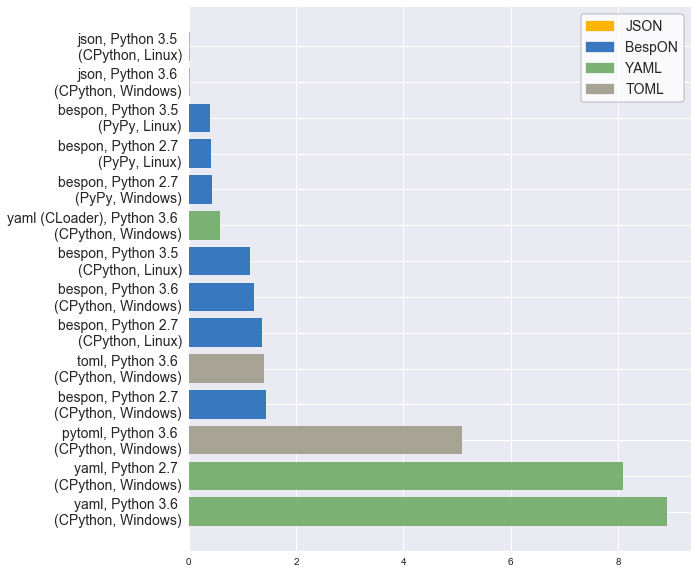
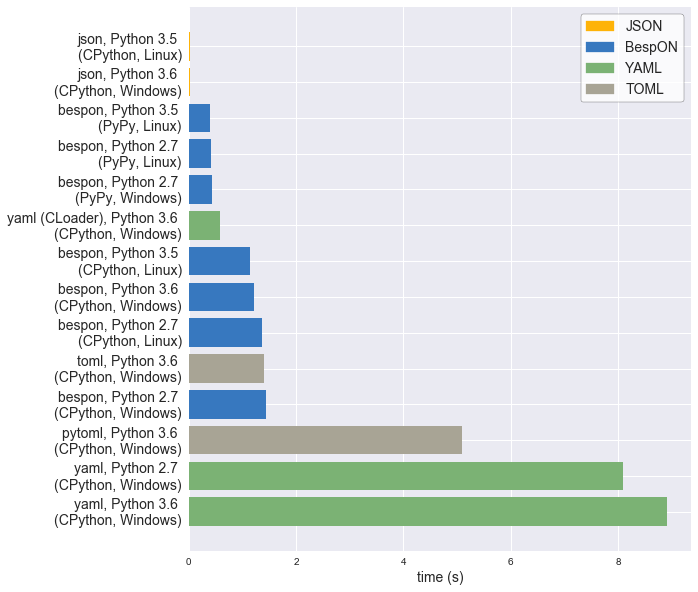
improved justification and spec, added plot xlabel

Changed region(s): [[0.0, 0.0592, 0.9628, 0.9181], [0.8424, 0.0296, 0.9628, 0.1777], [0.5716, 0.9477, 0.6619, 1.0]]

diff --git a/docs/index.md b/docs/index.md
@@ -1,92 +1,59 @@
-# BespON:  Bespoken Object Notation
+# BespON – Bespoken Object Notation
 
 
-BespON is a configuration language with several unique features.
+BespON is a configuration language that's custom built for the tasks that
+aren't convenient in the other formats.
 
-  * **Multi-paradigm** – Do you like JSON's braces, brackets, and quotation
-    marks?  Would you rather leave out some quotation marks and use
-    significant indentation instead of braces and brackets?  Do you prefer
-    INI-style sections, with no braces or brackets *and* no indentation?
-    BespON supports all three styles.
+  * **Multi-paradigm** – Do you like braces, brackets, and explicit quotation
+    marks, with no significant whitespace?  Would you rather leave out some
+    quotation marks and use significant indentation instead of braces and
+    brackets?  Do you prefer INI-style sections, with no braces or brackets
+    *and* no indentation?  BespON supports all three styles.
 
-  * **Extensible** – Support for several standard data types is built in,
-    and other types may be supported soon using tag syntax.
+  * **Strings and numbers** – Literal and escaped multiline strings designed
+    for storing template text.  Floats *and* integers, in multiple bases,
+    with full IEEE 754 support.
 
-  * **Round-trip enabled** – Many config languages lack parsers that can
-    round-trip data.  Loading, modifying, and then saving can change data
-    ordering, resulting in unnecessarily complicated diffs.  Even when a
-    round-trip parser exists, comments may be lost or associated with the
-    wrong data objects.  BespON is designed with round-tripping in mind,
-    including doc comments that are uniquely associated with individual data
-    objects and thus can be preserved through arbitrary data manipulation.
+  * **Lossless round tripping** – Designed to be loaded by a computer,
+    modified, and then saved while retaining exact layout, including comments.
 
 Take a look:
 
-```text
-# Line comments are allowed!  They can be round-tripped as long as data
-# elements are only modified, not added or removed.
+<div style="padding: 1em;color: #d4d4d4;background-color: #1e1e1e;font-family: Consolas, 'Courier New', monospace;font-weight: normal;font-size: 14px;line-height: 19px;white-space: pre;"><div><span style="color: #608b4e;"># Line comments are allowed!  They can be round-tripped as long as data</span></div><div><span style="color: #608b4e;"># elements are only modified, not added or removed.</span></div><br><div><span style="color: #608b4e;">### This is a doc comment.  It can always be round-tripped.###</span></div><div><span style="color: #608b4e;"># Only one doc comment is allowed per object; another couldn't be here.</span></div><br><div><span style="color: #ce9178;">"quoted key with \x5C escapes"</span><span style="color: #d4d4d4;"> = </span><span style="color: #ce9178;">'quoted value with \u{5C} escapes'</span></div><br><div><span style="color: #ce9178;">`literal key without \ escapes`</span><span style="color: #d4d4d4;"> = </span><span style="color: #ce9178;">``literal value without `\` escapes``</span></div><br><div><span style="color: #608b4e;"># ASCII identifier-style strings are allowed unquoted.</span></div><div><span style="color: #608b4e;"># Unquoted Unicode identifiers can optionally be enabled.</span></div><div><span style="color: #ce9178;">unquoted_key</span><span style="color: #d4d4d4;"> = </span><span style="color: #ce9178;">unquoted_value</span></div><br><div><span style="color: #ce9178;">inline_dict</span><span style="color: #d4d4d4;"> = {</span><span style="color: #ce9178;">key1</span><span style="color: #d4d4d4;"> = </span><span style="color: #ce9178;">value1</span><span style="color: #d4d4d4;">, </span><span style="color: #ce9178;">key2</span><span style="color: #d4d4d4;"> = </span><span style="color: #ce9178;">value2</span><span style="color: #d4d4d4;">,}  </span><span style="color: #608b4e;"># Trailing commas are fine.</span></div><br><div><span style="color: #ce9178;">inline_list_of_ints</span><span style="color: #d4d4d4;"> = [</span><span style="color: #b5cea8;">1</span><span style="color: #d4d4d4;">, </span><span style="color: #569cd6;">0x</span><span style="color: #b5cea8;">12</span><span style="color: #d4d4d4;">, </span><span style="color: #569cd6;">0o</span><span style="color: #b5cea8;">755</span><span style="color: #d4d4d4;">, </span><span style="color: #569cd6;">0b</span><span style="color: #b5cea8;">1010</span><span style="color: #d4d4d4;">]  </span><span style="color: #608b4e;"># Hex, octal, and binary!</span></div><br><div><span style="color: #ce9178;">list_of_floats</span><span style="color: #d4d4d4;"> =</span></div><div><span style="color: #d4d4d4;">  * </span><span style="color: #b5cea8;">1.2e3</span></div><div><span style="color: #d4d4d4;">  * </span><span style="color: #b5cea8;">-inf</span><span style="color: #d4d4d4;">  </span><span style="color: #608b4e;"># Full IEEE 754 compatibility.  Infinity and NaN are not excluded.</span></div><div><span style="color: #d4d4d4;">  * </span><span style="color: #569cd6;">0x</span><span style="color: #b5cea8;">4.3p2</span><span style="color: #d4d4d4;">  </span><span style="color: #608b4e;"># Hex floats, to avoid rounding issues.</span></div><br><div><span style="color: #ce9178;">wrapped_string</span><span style="color: #d4d4d4;"> = </span><span style="color: #ce9178;">"""string containing no whitespace lines in which line breaks</span></div><div><span style="color: #ce9178;">    are replaced with spaces, and "quotes" are possible by via delimiters"""</span></div><br><div><span style="color: #ce9178;">multiline_literal_string</span><span style="color: #d4d4d4;"> = </span><span style="color: #ce9178;">|```</span></div><div><span style="color: #ce9178;">        A literal string in which linebreaks are kept (as '\n')</span></div><div><span style="color: #ce9178;">        and leading indentation (relative to delimiters) is preserved,</span></div><div><span style="color: #ce9178;">        with special delimiters always on lines by themselves.</span></div><div><span style="color: #ce9178;">    |```/</span></div><br><div><span style="color: #ce9178;">multiline_escaped_string</span><span style="color: #d4d4d4;"> = </span><span style="color: #ce9178;">|"""</span></div><div><span style="color: #ce9178;">    The same idea as the literal string, but with backslash-escapes.</span></div><div><span style="color: #ce9178;">    |"""/</span></div><br><div><span style="color: #ce9178;">key1</span><span style="color: #d4d4d4;">.</span><span style="color: #ce9178;">key2</span><span style="color: #d4d4d4;"> = </span><span style="color: #569cd6;">true</span><span style="color: #d4d4d4;">  </span><span style="color: #608b4e;"># Key path style; same as "key1 = {key2 = true}"</span></div><br><div><span style="color: #d4d4d4;">|=== </span><span style="color: #ce9178;">section</span><span style="color: #d4d4d4;">.</span><span style="color: #ce9178;">subsection</span><span style="color: #d4d4d4;">  </span><span style="color: #608b4e;"># Same as "section = {subsection = {key = value}}"</span></div><div><span style="color: #ce9178;">key</span><span style="color: #d4d4d4;"> = </span><span style="color: #ce9178;">value</span></div><div><span style="color: #d4d4d4;">|===/  </span><span style="color: #608b4e;"># Back to root level.  Can be omitted if sections never return to root.</span></div><br></div>
 
-### This is a doc comment.  It can always be round-tripped.###
-# Only one doc comment is allowed per object; another couldn't be here.
-
-"quoted key with \x5C escapes" = 'quoted value with \u{5C} escapes'
-
-`literal key without \ escapes` = ``literal value without `\` escapes``
-
-# ASCII identifier-style strings are allowed unquoted.
-# Unquoted Unicode identifiers can optionally be enabled.
-unquoted_key = unquoted_value
-
-inline_dict = {key1 = value1, key2 = value2,}  # Trailing commas are fine.
-
-inline_list_of_ints = [1, 0x12, 0o755, 0b1010]  # Hex, octal, and binary!
-
-list_of_floats =
-  * 1.2e3
-  * -inf  # Full IEEE 754 compatibility.  Infinity and NaN are not excluded.
-  * 0x4.3p2  # Hex floats, to avoid rounding issues.
-
-wrapped_string = """string containing no whitespace lines in which line breaks
-    are replaced with spaces, and "quotes" are possible by via delimiters"""
-
-multiline_literal_string = |```
-        A literal string in which linebreaks are kept (as '\n')
-        and leading indentation (relative to delimiters) is preserved,
-        with special delimiters always on lines by themselves.
-    |```/
-
-multiline_escaped_string = |"""
-    The same idea as the literal string, but with backslash-escapes.
-    |"""/
-
-key1.key2 = true  # Key path style; same as "key1 = {key2 = true}"
-
-|=== section.subsection  # Same as "section = {subsection = {key = value}}"
-key = value
-|===/  # Back to root level.  Can be omitted if sections never return to root.
-```
-
+<br>
 
 
 ## Why?
 
 [![XKCD Standards](https://imgs.xkcd.com/comics/standards.png)](https://xkcd.com/927/)
 
-Now the requisite XKCD reference is out of the way, why BespON?
+Now that the requisite XKCD reference is out of the way, why BespON?
 
-  * **Comments**.  And doc comments that are uniquely associated with
-    individual data objects, and thus may always be round-tripped correctly.
+  * **Comments**.  Instead of not having comments.  Normal comments aren't
+    uniquely associated with individual data elements (or necessarily with
+    data at all), so BespON also provides doc comments.  Only one doc comment
+    is allowed per data element.  This brings the possibility of round
+    tripping with arbitrary data manipulation while retaining all (doc)
+    comments.
   * **Trailing commas**.
-  * **Unquoted strings**.  But only identifier-style strings.
-  * **Multiline strings** with indentation preserved *relative to delimiters*.
-    Multiline strings with obvious leading/trailing whitespace, since it's
-    inside delimiters.
+  * **Unquoted strings**.  But only identifier-style strings, and only strings
+    that do NOT match reserved words like `true` under any capitalization.
+  * **Consistent reserved words**.  `true` is *always* boolean True.  It isn't
+    boolean True or the string "true" depending on whether it happens to
+    appear as a dict key or as a dict value.
+  * **Multiline strings** that take into account the needs of storing template
+    text.  Indentation is preserved *relative to delimiters*.
+    Leading/trailing whitespace is obvious, since it's inside delimiters.
+    Opening delimiters are different than closing delimiters, so it's easy to
+    distinguish the start of a multiline string from the end when working with
+    long templates.
   * **Integers**.  And integers with various bases (decimal, hex, octal,
     binary).
-  * **Full IEEE 754 floating point support** (with infinity and NaN),
+  * **Full IEEE 754 floating point support** with Infinity and NaN,
     including hex floats for cases when rounding errors aren't acceptable.
-  * **Immutable data object model**.  Duplicate keys are invalid and must
-    result in an error.
+  * **Immutable data object model**.  Duplicate keys in dicts are invalid and
+    must result in an error.
   * **A small list of special characters**.  Every ASCII punctuation character
     does NOT have its own, special meaning.  No constant wondering about what
     is allowed unquoted, and if it will appear as itself or something else.
@@ -94,17 +61,16 @@ Now the requisite XKCD reference is out of the way, why BespON?
     structures, without ending up with bracket soup or half a page width of
     indentation.
   * **"Acceptable" performance** even when completely implemented in an
-    interpreted language.  (See the benchmarks below.)
+    interpreted language (see the benchmarks below).
 
 
 
 ## Getting started
 
 A [**Python implementation**](https://github.com/gpoore/bespon_py) is available
-now.  It supports loading and saving data.
-
-There is also round trip support for changing the values of strings, floats,
-ints, and bools.  For example,
+now.  It supports loading and saving data.  There is also round trip support
+for changing the values of strings, floats, ints, and bools (changing types
+is not currently supported).  For example,
 ```
 >>> import bespon
 >>> ast = bespon.loads_roundtrip_ast("""
@@ -122,7 +88,7 @@ key.sk.first = 123   # Comment
 key.sk.second = 0b111
 key.sk.fourth = `\another \literal`
 ```
-This example illustrates several of the round trip capabilities.
+This illustrates several of the round trip capabilities.
 
   * Comments and layout are preserved exactly.
   * Key renaming works with key paths.  Every time a key appears in key paths,
@@ -150,11 +116,11 @@ which the Python implementation passes.
 
 One of the goals for BespON is "acceptable" performance even when completely
 implemented in an interpreted language.  So far, the pure Python
-implementation is promising.  It only contains minimal optimizations
+implementation is promising.  It contains minimal optimizations
 (avoidance of globals, use of `__slots__`), and has significant overhead
 since it saves detailed source information about each data object to support
 round tripping.  In spite of this, under CPython it can be only about 2 times
-slower than LibYAML, the *C implementation* of YAML.  Under
+slower than PyYAML using LibYAML, the *C implementation* of YAML.  Under
 [PyPy](http://pypy.org/), the pure Python implementation can actually be
 significantly faster than LibYAML.  An implementation of BespON that left out
 the round-trip data, or used [Cython](http://cython.org/), could likely be

diff --git a/docs/spec_overview.md b/docs/spec_overview.md
@@ -1,4 +1,4 @@
-# BespON Specification Overview
+# BespON Specification
 
 This is an overview of the BespON specification.  A more formal,
 more detailed specification will follow as soon as the Python implementation
@@ -45,7 +45,7 @@ None/null/undefined is represented as `none`.  All other capitalizations of
 `none` are invalid and must produce errors.  Unlike YAML, uppercase and
 titlecase variants of reserved words are NOT equivalent to their lowercase
 versions, and other capitalization variants are NOT valid unquoted strings.
-The literal string `none`, in any capitalization, can only be represented by
+The literal string "none", in any capitalization, can only be represented by
 using a quoted string.
 
 
@@ -54,9 +54,9 @@ using a quoted string.
 
 Boolean values are represented as `true` and `false`.  As with `none`, all
 other capitalizations are invalid and must produce errors.  The only way
-to obtain the literal strings `true` and `false`, in any capitalization, is
-to use quoted strings.  Unlike TOML, boolean literals have a constant type
-in all contexts; they are not strings when used as dict keys, but booleans
+to obtain the literal strings "true" and "false", in any capitalization, is
+to use quoted strings.  Unlike TOML, the meanings of `true` and `false` are
+NOT context-dependent; they are not strings when used as dict keys, but booleans
 when used as dict values.
 
 
@@ -99,7 +99,7 @@ Implementations are expected to use float types compatible with IEEE 754
 binary64.
 
 Infinity is represented as `inf`, and not a number as `nan`.  All other
-capitalizations are invalid, and the literal strings `inf` and `nan` require
+capitalizations are invalid, and the literal strings "inf" and "nan" require
 quoted strings.
 
 
@@ -143,8 +143,8 @@ A string that starts with one quotation mark `'` or `"` ends at the next
 identical quotation mark that is not backslash-escaped.  The sequences `''`
 and `""` represent the empty string.  Longer delimiter sequences such as
 `'''` and `"""` may be used to include any unescaped delimiter sequence that
-is shorter or longer than the delimiters.  Such sequences must be multiples
-of 3 characters in length and no longer than 90 characters.
+is shorter or longer than the delimiters.  Such delimiter sequences must be
+multiples of 3 characters in length and no longer than 90 characters.
 
 Strings delimited by backticks begin with a delimiter sequence of length
 1, 2, 3, or a multiple of 3 no longer than 90 characters, and end when the
@@ -157,11 +157,11 @@ backtick `` ` ``.
 
 Inline quoted strings may be wrapped over multiple lines.  When this is done,
 the indentation of the first continuation line must be equal to or greater
-than that of the line on which it begins, and any subsequent continuation
-lines must have that same indentation.  Wrapped quoted strings are unwrapped
-by replacing each line break with a space if the last character before the
-break does not have the Unicode property `White_Space`, and simply stripping
-breaks otherwise.
+than that of the line on which the string begins, and any subsequent
+continuation lines must have that same indentation.  Wrapped quoted strings
+are unwrapped by replacing each line break with a space if the last character
+before the break does not have the Unicode property `White_Space`, and simply
+stripping breaks otherwise.
 
 ### Quoted block strings
 
@@ -224,6 +224,20 @@ then the `*` is ignored in calculating the total indentation; otherwise it
 is treated as equivalent to a space.  In indentation-based syntax, all `*`
 in a list must have the same indentation, and all objects that follow them
 must also have the same indentation.
+
+When a list is within a list, each successive asterisk must be on a new line.
+Thus,
+```text
+*
+  * text
+```
+is equivalent to
+```text
+[[text]]
+```
+
+An asterisk cannot be used alone without a following object to represent the
+empty list.  The empty list must always be represented explicitly as `[]`.
 
 There is also a more compact, inline syntax for lists, in which the list is
 delimited by square brackets `[...]` and individual list elements are
@@ -344,7 +358,7 @@ since that is outside the scope.
 
 Sections provide a way to use indentation-based syntax without using
 deep indentation.  A section is started by a pipe `|` followed by a sequence
-of equals signs whose length is a multiple of 3 and is no longer than 90
+of equals signs `=` whose length is a multiple of 3 and is no longer than 90
 characters.  This is followed by a key path or a key, which must terminate
 on the line where the key path begins (line breaks are not permitted).
 Everything after the section start is included under the specified key path
@@ -436,13 +450,13 @@ this will rarely be possible, the next best thing would be to require that
 right-to-left code points only appear in contexts in which this sort of
 key-value reversal in visual rendering is not possible.
 
-By default, whenever a string contains code points with Unicode
-`Bidi_Class` R or AL on its last line, no string or number is allowed to
-follow it on that line.  Any following object must be on a subsequent line,
-to avoid the potential of confusion due to bidirectional rendering.  Such
-a string may still be followed by a comma `,`, bracket `]`, brace `}`,
-equals sign `=`, or other non-string, non-digit element, since this will not
-introduce the possibility of ambiguous rendering.
+By default, whenever a string contains code points with Unicode `Bidi_Class` R
+or AL on its last line, no string, number, or comment is allowed to follow it
+on that line.  Any following object must be on a subsequent line, to avoid the
+potential of confusion due to bidirectional rendering.  Such a string may
+still be followed by a comma `,`, bracket `]`, brace `}`, equals sign `=`, or
+other non-string, non-digit element, since this will not introduce the
+possibility of ambiguous rendering.
 
 
 
